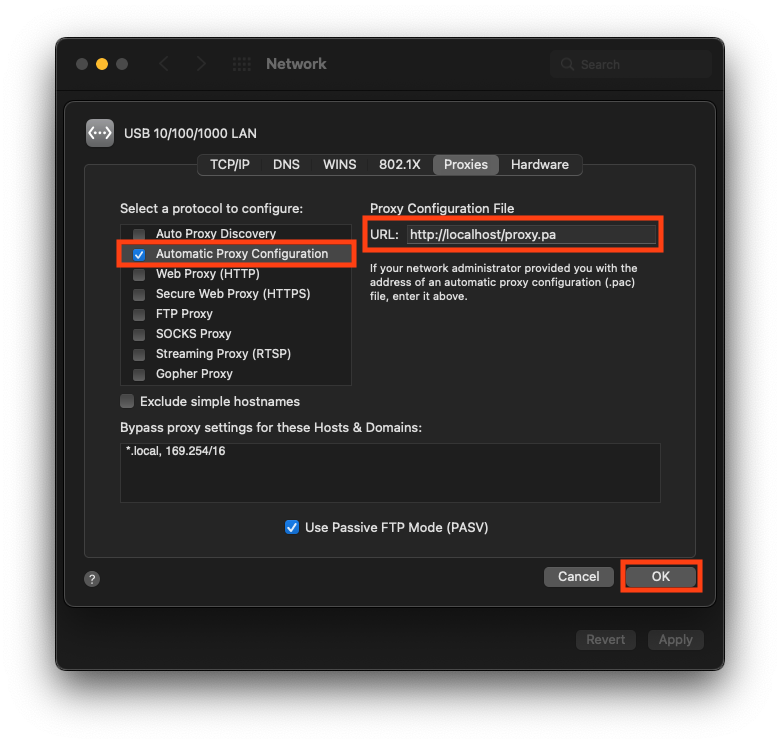
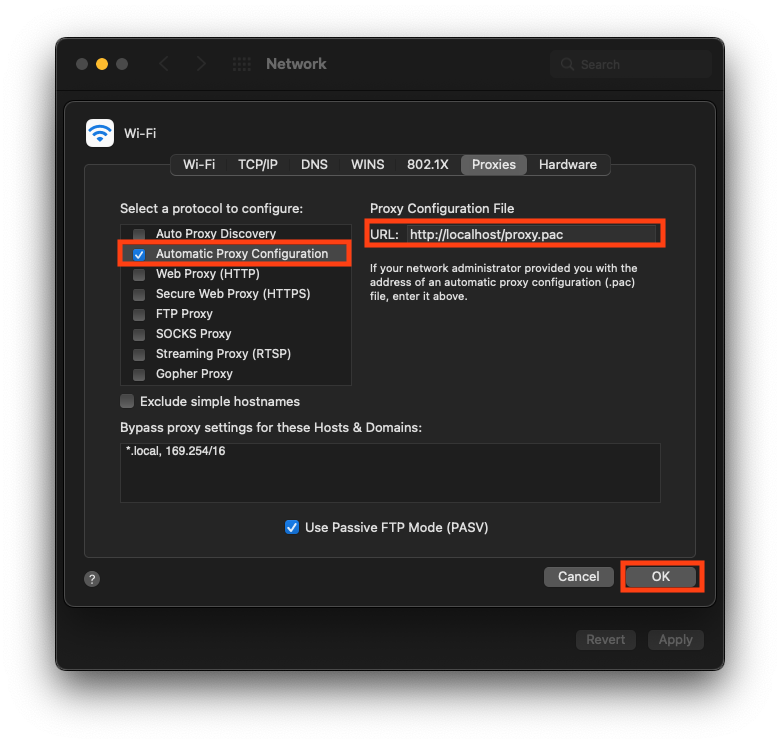
fix image text, make system-wide 2 words

diff --git a/site/source/user-manual/connecting/connecting-tor/tor-os/tor-mac.rst b/site/source/user-manual/connecting/connecting-tor/tor-os/tor-mac.rst
@@ -104,6 +104,6 @@ Enable Tor System-wide
         :width: 80%
         :alt: Apply proxy
 
-Done! You have now enabled system wide Tor potential.
+Done! You have now enabled system-wide Tor potential.
 
 If you'd like to setup Firefox to use Tor you can follow  :ref:`this guide<torff-mac>`.
